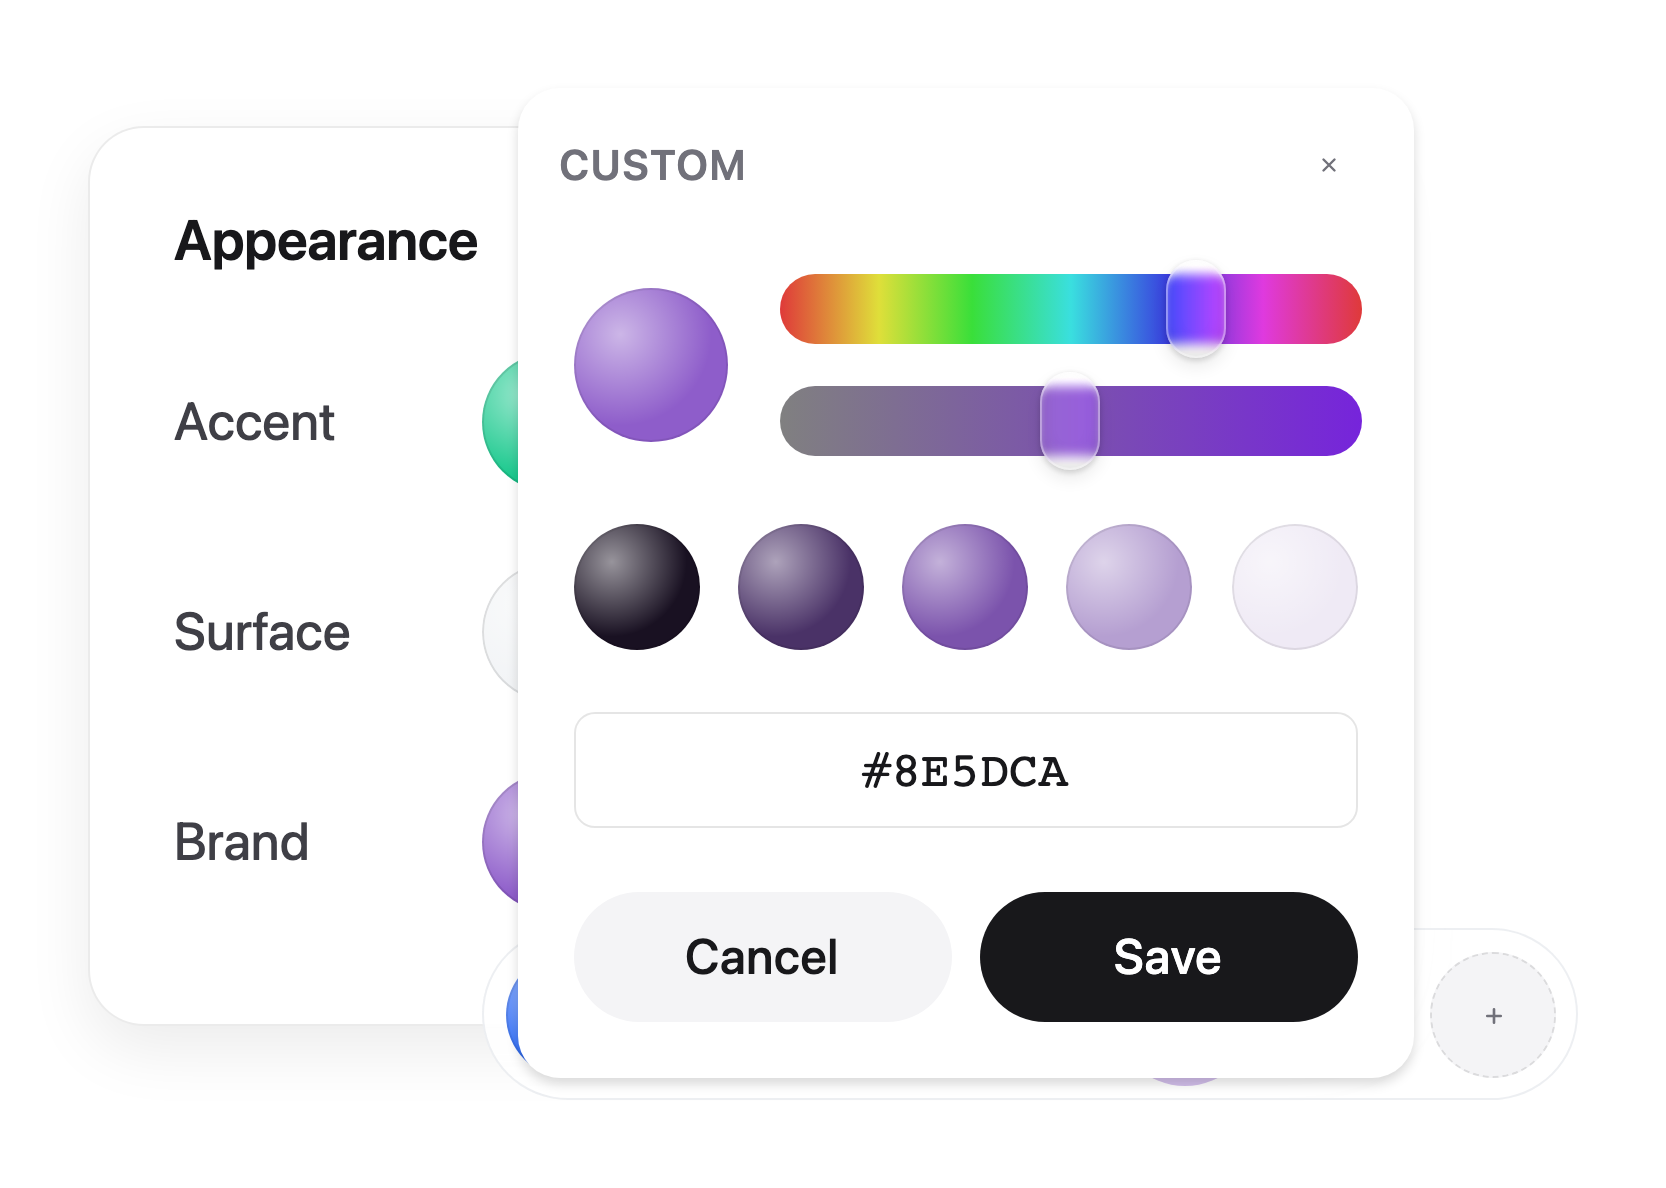
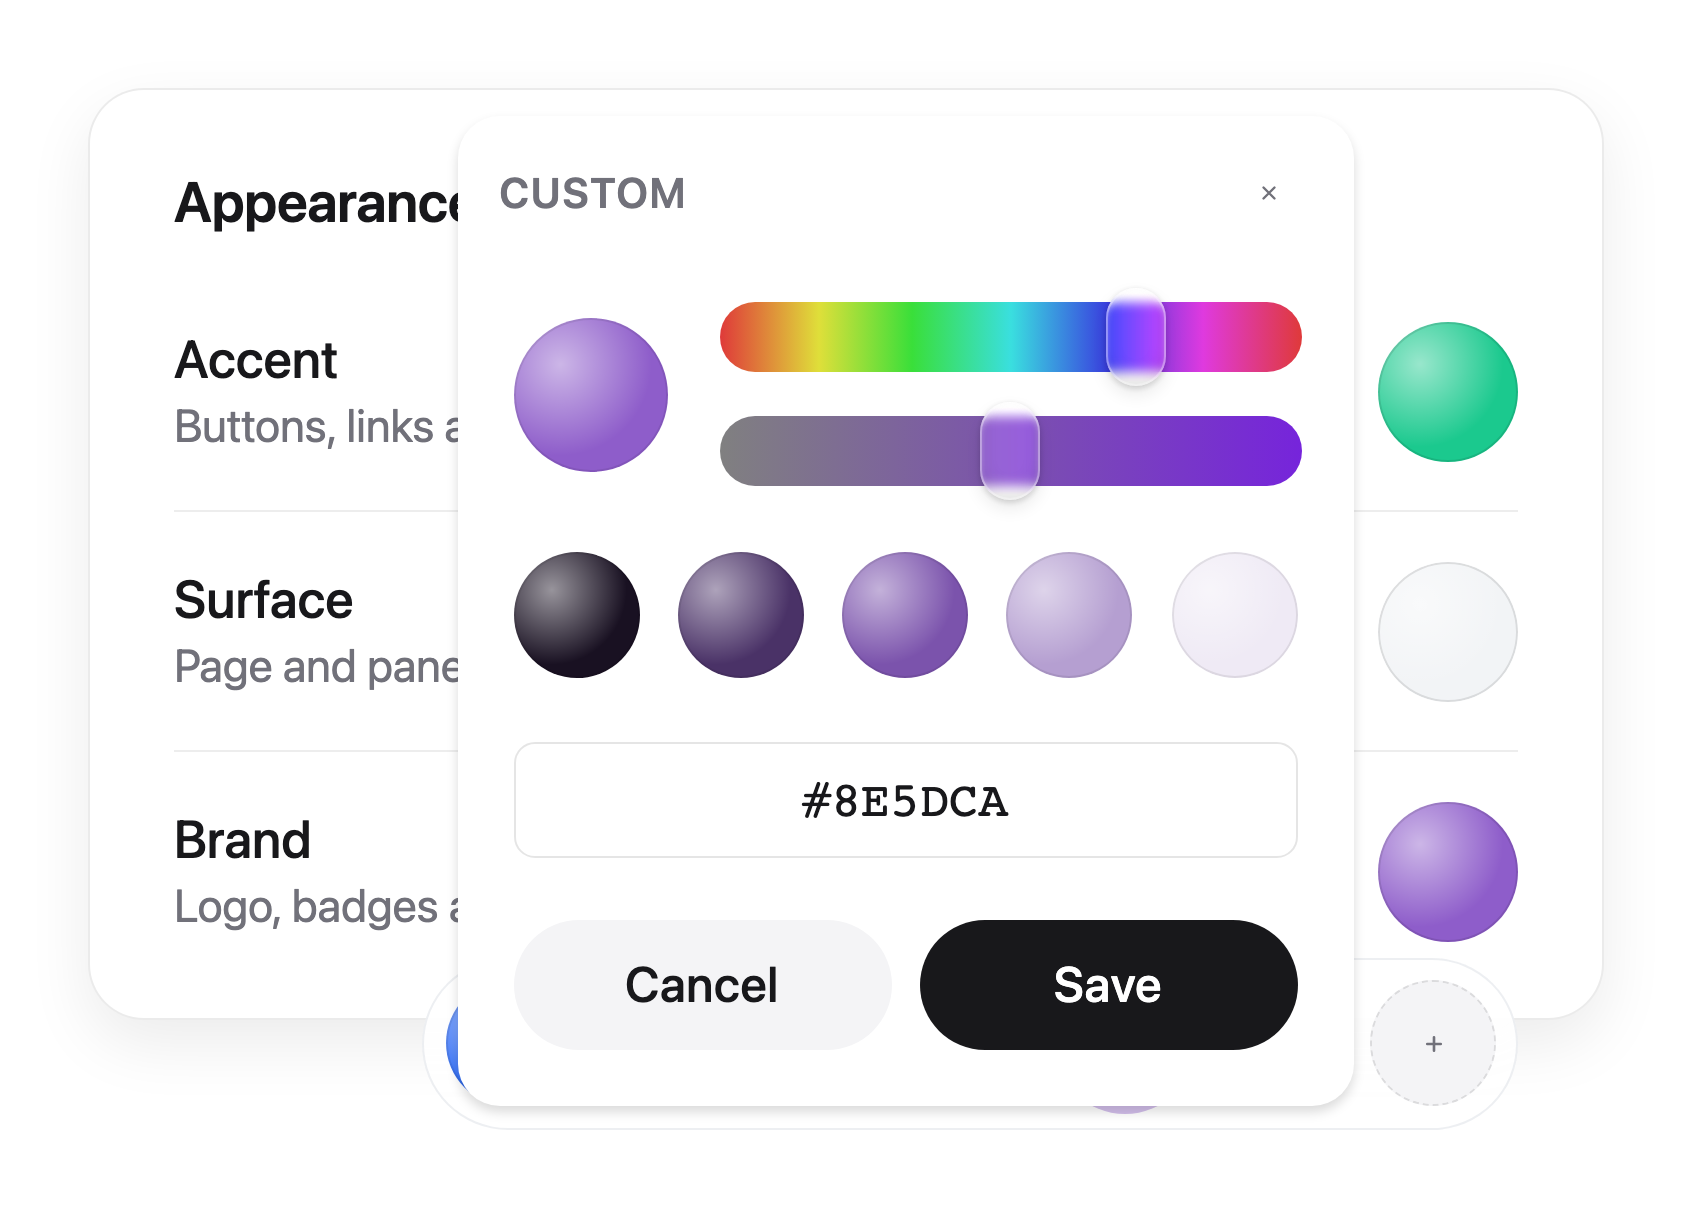
feat(docs): three container candidates on the chosen ground
`?container=` picks what surrounds the picker: a settings list, a live preview,
or a floating palette strip. It lives in the demo page rather than the shoot
script, since it is a design question and not a capture one.

All three heroes share the ground and plate that were chosen, so the only thing
differing between them is the container being compared.

- settings — title and description per row, control on the right. The tray
  opens bottom-end from the last row so it clears the panel rather than
  crossing it.
- preview — a mock interface using all three colours above the controls, so the
  shot shows what a choice is for.
- strip — no card at all, three swatches in a floating bar the way a design
  tool holds a document's colours.

Also fixes the isolate helper, which still hid `.card` after the container
classes were renamed — the panel was showing through behind the surface shot.

diff --git a/playground/src/Demo.vue b/playground/src/Demo.vue
@@ -1,11 +1,24 @@
 <script setup lang="ts">
-import { ref } from 'vue'
+import { computed, ref } from 'vue'
 import { ColorPicker } from 'vue-tray-color-picker'
 
 /**
  * The scene the readme stills are taken from. Kept apart from App.vue so shots
  * can be retaken without a scroll through every awkward case.
+ *
+ * `?container=` picks the surrounding UI. The picker is a form control and only
+ * reads as one in company, but what that company looks like changes what the
+ * shot says — so the candidates live here rather than in the shoot script.
  */
+type Container = 'settings' | 'preview' | 'strip'
+
+const container = computed<Container>(() => {
+  const requested = new URLSearchParams(location.search).get('container')
+  return (['settings', 'preview', 'strip'] as const).includes(requested as Container)
+    ? requested as Container
+    : 'settings'
+})
+
 const accent = ref<string | null>('#1bc98e')
 const surfaceColor = ref<string | null>('#f2f4f6')
 const brand = ref<string | null>('#8e5dca')
@@ -13,15 +26,21 @@ const brand = ref<string | null>('#8e5dca')
 
 <template>
   <main class="stage">
-    <!-- A settings panel rather than one lonely row: the picker is a form
-         control, and it reads as one when it is sitting among others. -->
-    <section class="card">
-      <h1 class="card__title">
+    <!-- A. A settings list. Title and description per row, control on the
+         right — what a real preferences pane looks like. -->
+    <section
+      v-if="container === 'settings'"
+      class="panel"
+    >
+      <h1 class="panel__title">
         Appearance
       </h1>
 
-      <div class="row">
-        <span class="row__label">Accent</span>
+      <div class="entry">
+        <span class="entry__text">
+          <b>Accent</b>
+          Buttons, links and focus rings
+        </span>
         <ColorPicker
           v-model="accent"
           range="full"
@@ -31,8 +50,11 @@ const brand = ref<string | null>('#8e5dca')
         />
       </div>
 
-      <div class="row">
-        <span class="row__label">Surface</span>
+      <div class="entry">
+        <span class="entry__text">
+          <b>Surface</b>
+          Page and panel background
+        </span>
         <ColorPicker
           v-model="surfaceColor"
           range="full"
@@ -42,14 +64,94 @@ const brand = ref<string | null>('#8e5dca')
         />
       </div>
 
-      <div class="row">
-        <span class="row__label">Brand</span>
+      <div class="entry">
+        <span class="entry__text">
+          <b>Brand</b>
+          Logo, badges and marketing
+        </span>
+        <ColorPicker
+          v-model="brand"
+          range="full"
+          placement="bottom-end"
+          recent-key="demo:brand"
+        />
+      </div>
+    </section>
+
+    <!-- B. The colours doing something. A preview above, the controls beneath,
+         so the shot shows what a choice is actually for. -->
+    <section
+      v-else-if="container === 'preview'"
+      class="preview"
+    >
+      <div
+        class="preview__canvas"
+        :style="{ background: surfaceColor ?? '#f2f4f6' }"
+      >
+        <span
+          class="preview__badge"
+          :style="{ background: brand ?? '#8e5dca' }"
+        >Pro</span>
+        <span class="preview__line preview__line--wide" />
+        <span class="preview__line" />
+        <button
+          class="preview__button"
+          :style="{ background: accent ?? '#1bc98e' }"
+        >
+          Continue
+        </button>
+      </div>
+
+      <div class="preview__controls">
+        <ColorPicker
+          v-model="accent"
+          range="full"
+          clearable
+          default-color="#8a8a8f"
+          recent-key="demo:accent"
+        />
+        <ColorPicker
+          v-model="surfaceColor"
+          range="full"
+          clearable
+          default-color="#f2f4f6"
+          recent-key="demo:surface"
+        />
         <ColorPicker
           v-model="brand"
           range="full"
           recent-key="demo:brand"
         />
       </div>
+    </section>
+
+    <!-- C. A palette strip. No card at all — three swatches in a floating bar,
+         the way a design tool holds a document's colours. -->
+    <section
+      v-else
+      class="strip"
+    >
+      <span class="strip__label">Theme</span>
+      <span class="strip__rule" />
+      <ColorPicker
+        v-model="accent"
+        range="full"
+        clearable
+        default-color="#8a8a8f"
+        recent-key="demo:accent"
+      />
+      <ColorPicker
+        v-model="surfaceColor"
+        range="full"
+        clearable
+        default-color="#f2f4f6"
+        recent-key="demo:surface"
+      />
+      <ColorPicker
+        v-model="brand"
+        range="full"
+        recent-key="demo:brand"
+      />
     </section>
   </main>
 </template>
@@ -59,10 +161,6 @@ const brand = ref<string | null>('#8e5dca')
  * On the root element, not the stage: `rem` resolves against the root, so
  * scaling anything else leaves every rem in the component at the browser
  * default and the demo never actually grows.
- *
- * Sized against the viewport so the recording can be supersampled — at twice
- * the viewport this draws at twice the size, which is real detail to crop into
- * rather than an upscale.
  */
 html {
   font-size: clamp(20px, 2vw, 48px);
@@ -70,9 +168,8 @@ html {
 
 /**
  * `?bare` drops the stage so screenshots can be taken with a transparent
- * background. The card keeps its own shadow, so the component floats on
- * whatever it is later placed on instead of arriving with a grey rectangle
- * around it.
+ * background. The container keeps its own shadow, so it floats on whatever it
+ * is later placed on instead of arriving with a grey rectangle around it.
  */
 html.bare,
 html.bare body,
@@ -92,42 +189,131 @@ html.bare .stage {
   background: light-dark(#f4f4f6, #131316);
 }
 
-.card {
-  display: grid;
-  gap: 0.25rem;
-  width: 20rem;
-  padding: 1.25rem 1.5rem 1.5rem;
+.panel,
+.preview,
+.strip {
   border: 1px solid light-dark(rgb(0 0 0 / 8%), rgb(255 255 255 / 10%));
-  border-radius: 1rem;
   background: light-dark(#fff, #1e1e21);
   box-shadow: 0 12px 32px rgb(0 0 0 / 8%);
 }
 
-.card__title {
+/* ─── A. Settings ─────────────────────────────────────────────────────────── */
+
+.panel {
+  width: 24rem;
+  padding: 1.25rem 1.5rem 0.5rem;
+  border-radius: 1rem;
+}
+
+.panel__title {
   margin-bottom: 0.5rem;
   font-size: 1rem;
   font-weight: 600;
   letter-spacing: -0.01em;
 }
 
-/**
- * A fixed label column rather than a flex gap. Labels of different lengths put
- * each swatch at a different x, and a column of controls that does not line up
- * is the first thing the eye catches.
- *
- * Swatch after the label, not at the card's right edge: from the right the tray
- * has nowhere to open into and gets shifted back across the card.
- */
-.row {
-  display: grid;
-  grid-template-columns: 5.5rem auto;
+.entry {
+  display: flex;
   align-items: center;
-  padding: 0.5rem 0;
+  justify-content: space-between;
+  gap: 1.5rem;
+  padding: 0.875rem 0;
 }
 
-.row__label {
+/* Hairlines between, not around: the panel's own border closes the group. */
+.entry + .entry {
+  border-top: 1px solid light-dark(rgb(0 0 0 / 7%), rgb(255 255 255 / 8%));
+}
+
+.entry__text {
+  font-size: 0.8125rem;
+  line-height: 1.35;
+  color: light-dark(#71717a, #a1a1aa);
+}
+
+.entry__text b {
+  display: block;
   font-size: 0.9375rem;
-  font-weight: 450;
+  font-weight: 500;
+  color: light-dark(#18181b, #e4e4e7);
+}
+
+/* ─── B. Preview ──────────────────────────────────────────────────────────── */
+
+.preview {
+  display: grid;
+  gap: 1rem;
+  width: 20rem;
+  padding: 1rem;
+  border-radius: 1.125rem;
+}
+
+.preview__canvas {
+  display: grid;
+  gap: 0.625rem;
+  justify-items: start;
+  padding: 1.125rem;
+  border-radius: 0.75rem;
+  box-shadow: inset 0 0 0 1px rgb(0 0 0 / 5%);
+}
+
+.preview__badge {
+  padding: 0.1875rem 0.5rem;
+  border-radius: 999px;
+  color: #fff;
+  font-size: 0.6875rem;
+  font-weight: 600;
+  letter-spacing: 0.01em;
+}
+
+.preview__line {
+  width: 55%;
+  height: 0.4375rem;
+  border-radius: 999px;
+  background: light-dark(rgb(0 0 0 / 12%), rgb(255 255 255 / 18%));
+}
+
+.preview__line--wide {
+  width: 80%;
+}
+
+.preview__button {
+  margin-top: 0.375rem;
+  padding: 0.4375rem 0.875rem;
+  border: 0;
+  border-radius: 999px;
+  color: #fff;
+  font: inherit;
+  font-size: 0.8125rem;
+  font-weight: 500;
+}
+
+.preview__controls {
+  display: flex;
+  gap: 0.75rem;
+  padding: 0 0.125rem 0.125rem;
+}
+
+/* ─── C. Strip ────────────────────────────────────────────────────────────── */
+
+.strip {
+  display: flex;
+  align-items: center;
+  gap: 0.75rem;
+  padding: 0.625rem 1rem;
+  border-radius: 999px;
+}
+
+.strip__label {
+  font-size: 0.8125rem;
+  font-weight: 500;
+  letter-spacing: -0.005em;
   color: light-dark(#3f3f46, #d4d4d8);
+}
+
+.strip__rule {
+  width: 1px;
+  height: 1.5rem;
+  background: light-dark(rgb(0 0 0 / 10%), rgb(255 255 255 / 14%));
 }
 </style>
